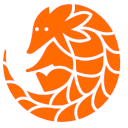
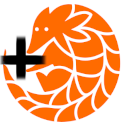
Change image and add antoine address to tip

Changed region(s): [[0.0, 0.2812, 0.375, 0.625]]

diff --git a/popup.html b/popup.html
@@ -244,6 +244,24 @@
     <br />
 
     <button id="displayScript">Display Infos on page</button>
+    <br>
+    <br>
+    Made by Aurelien (extension) and Antoine (calcul and display)
+    <br>
+    <br>
+    Tip us to support development :
+    <br>
+    Aurelien: 
+    <br>
+    C-Chain : 0x665342762FDD54D0303c195fec3ce2568b62052e
+    <br>
+    X-Chain : X-avax1wrhekrhes3tlskfckd8rpcyclvgjnewkv62zzd
+    <br>
+    <br>
+    Antoine:
+    <br>
+    X-Chain : X-avax1mk20lst2vfalhpp5nu8gv3u0r6pc7tmhdxy3fm
+    <br>
     <script src="popup.js"></script>
   </body>
 </html>
